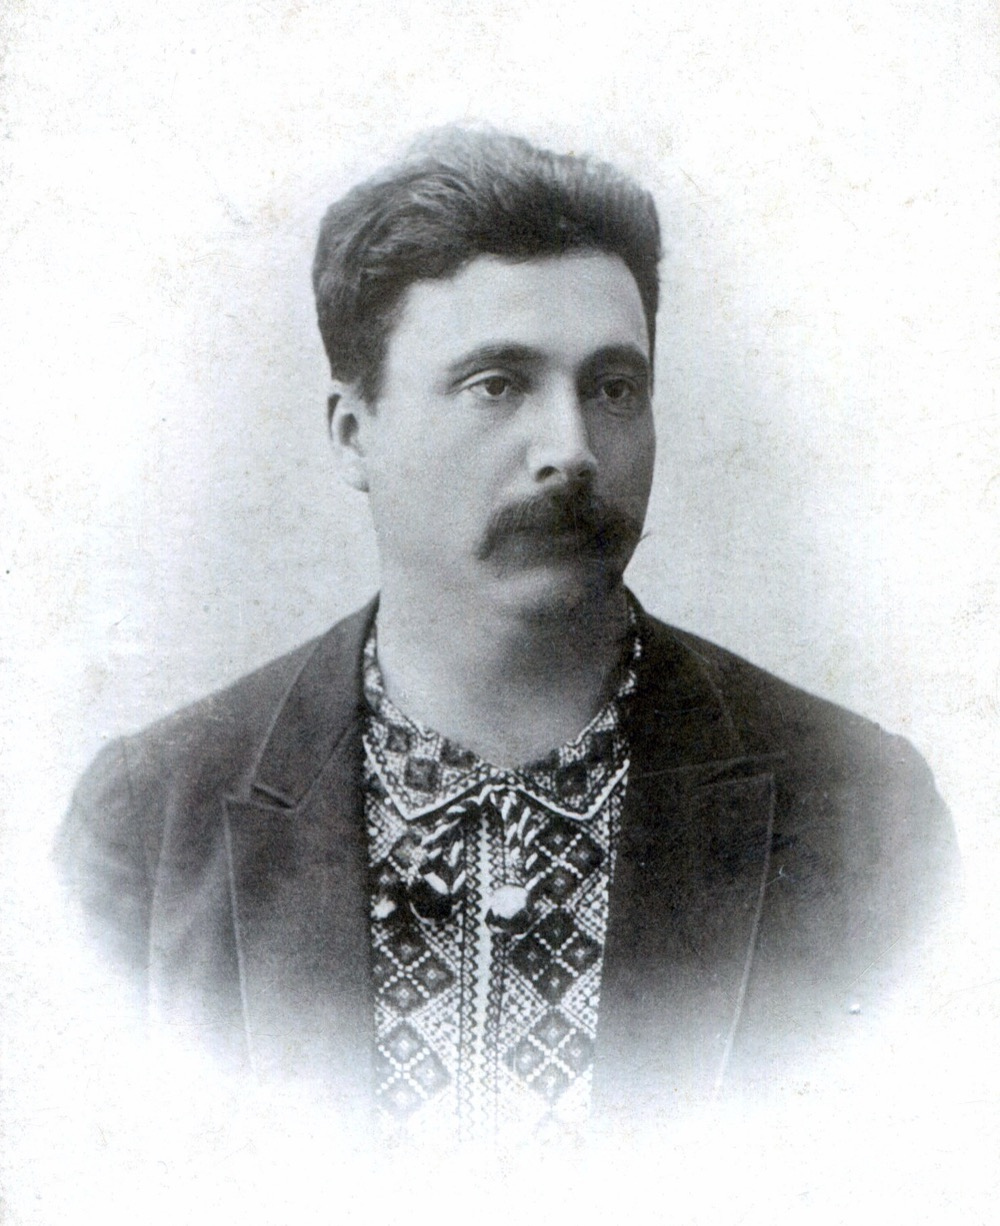
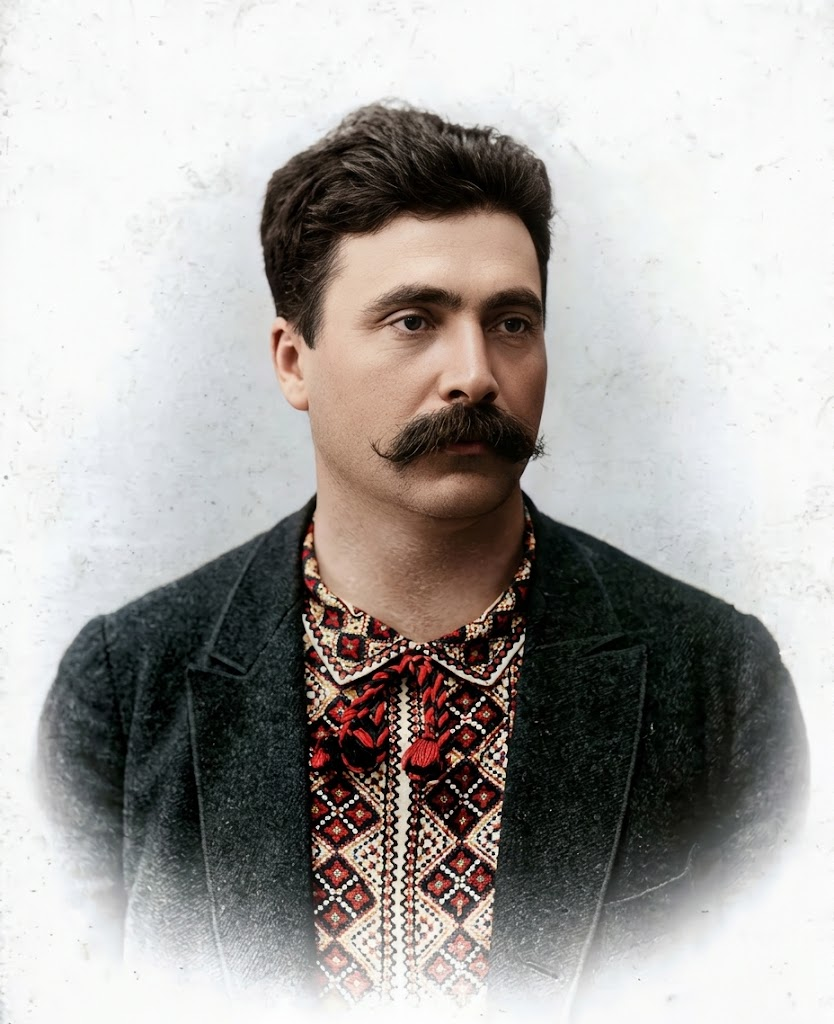
approve panas saksahanskyi; ai-colorized portrait

diff --git a/src/content/people/uk/panas-saksahanskyi.md b/src/content/people/uk/panas-saksahanskyi.md
@@ -17,11 +17,12 @@ places:
   - { name: "Київ", lat: 50.45, lon: 30.523, note: "директор Народного театру, 1918–1922; місце смерті" }
 image:
   src: ./images/panas-saksahanskyi.jpg
-  alt: "Чорно-білий фотопортрет Панаса Саксаганського 1890-х років: темне волосся, густі вуса, вишиванка під темним піджаком"
+  alt: "Фотопортрет Панаса Саксаганського 1890-х років: темне волосся, густі вуса, червоно-чорна вишиванка під темним піджаком; відновлений і розфарбований ШІ"
   position: "50% 30%"
   author: "Невідомий автор"
   license: "Public domain"
   source_url: "https://commons.wikimedia.org/wiki/File:Панас_Саксаганський_2.jpg"
+  ai_edit: colorized
 key_accomplishments:
   - "1890 року очолив власну трупу, створену разом із братом Іваном Карпенком-Карим"
   - "Близько сотні головних ролей: Возний у «Наталці Полтавці», Копач у «Ста тисячах», Голохвостий у «За двома зайцями»"
@@ -47,7 +48,8 @@ sources:
   - title: Вікіпедія - Саксаганський Панас Карпович
     url: https://uk.wikipedia.org/wiki/Саксаганський_Панас_Карпович
 related: [ivan-karpenko-karyi, mykola-sadovskyi, marko-kropyvnytskyi, mykhailo-starytskyi, ivan-kotliarevskyi, hryhorii-kvitka-osnovianenko, yevhen-chykalenko, mariia-zankovetska]
-status: draft
+status: approved
+published: 2026-10-24T04:06:50Z
 ---
 
 ## П'єса, яку знала мати

diff --git a/src/content/people/en/panas-saksahanskyi.md b/src/content/people/en/panas-saksahanskyi.md
@@ -12,7 +12,7 @@ key_accomplishments:
   - "In 1918–1922 led the People’s Theatre in Kyiv, the basis of the later Mariia Zankovetska Theatre"
   - "The comedies Hypocrites (1908) and Rabble, and books of memoirs"
 birthplace_name: "Kamiano-Kostuvate, Kherson Governorate (now Voznesensk district, Mykolaiv Oblast)"
-image_alt: "Black-and-white photo portrait of Panas Saksahanskyi in the 1890s: dark hair, a thick moustache, an embroidered shirt under a dark jacket"
+image_alt: "Photo portrait of Panas Saksahanskyi in the 1890s: dark hair, a thick moustache, a red-and-black embroidered shirt under a dark jacket; restored and colorized with AI"
 ---
 
 ## The play their mother knew by heart
